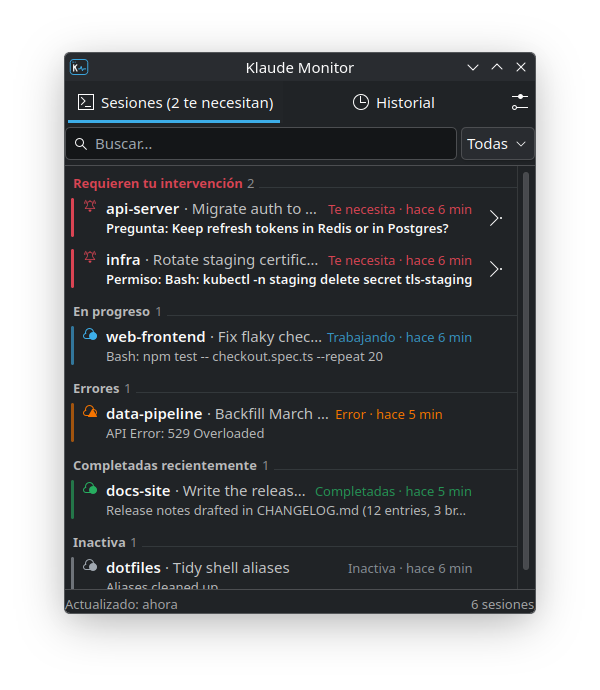
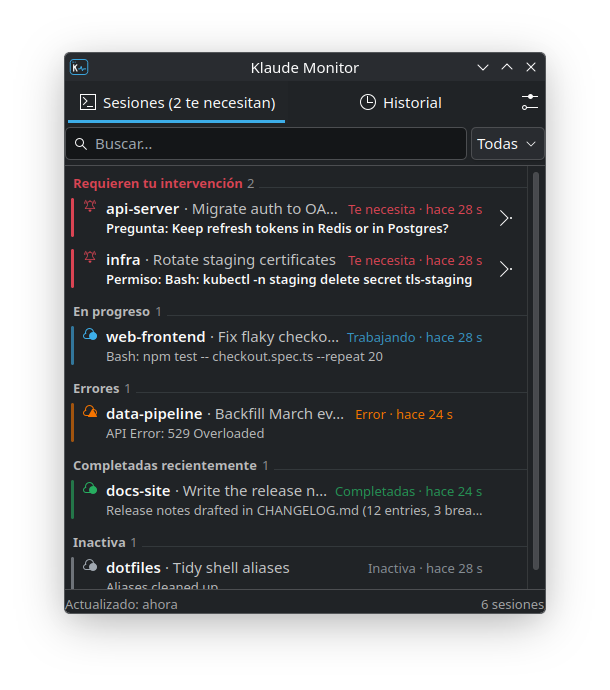
Refresh screenshots; withdraw notifications once handled
All README screenshots retaken with the new panel icon, from an isolated
monitor running demo sessions only.

"Claude needs you" and error notifications are critical, so they stayed
on screen after the session was answered or the error reviewed and piled
up. The service now closes a session's notification as soon as it stops
waiting or its error is reviewed.

diff --git a/daemon/klaude_monitord/notify.py b/daemon/klaude_monitord/notify.py
@@ -101,6 +101,15 @@ class Notifier:
 
         self.bus.call(SERVICE, PATH, SERVICE, "Notify", params, None, Gio.DBusCallFlags.NONE, 5000, None, done)
 
+    def close(self, session_id):
+        """Withdraw the notification shown for a session, if any."""
+        nid = self.by_session.pop(session_id, None)
+        if nid is None:
+            return
+        self.ids.pop(nid, None)
+        self.bus.call(SERVICE, PATH, SERVICE, "CloseNotification", GLib.Variant("(u)", (nid,)), None,
+                      Gio.DBusCallFlags.NONE, 5000, None, None)
+
     def _on_action(self, _bus, _sender, _path, _iface, _signal, params, _data):
         nid, action = params.unpack()
         sid = self.ids.get(nid)

diff --git a/daemon/tests/test_core.py b/daemon/tests/test_core.py
@@ -72,7 +72,13 @@ class StateMachine(Base):
         self.feed("idle")
         self.assertEqual(s.state, "completed")
         self.assertEqual(self.kinds(), ["session_start", "task_start", "needs_input", "input_resolved", "task_end"])
-        self.assertEqual(self.notes, ["needs_input", "completed"])
+        self.assertEqual([n for n in self.notes if n != "dismiss"], ["needs_input", "completed"])
+
+    def test_notification_withdrawn_when_answered(self):
+        self.feed("busy")
+        self.feed("waiting", waiting="permission")
+        self.feed("busy")
+        self.assertEqual(self.notes, ["needs_input", "dismiss"])
 
     def test_short_task_not_notified(self):
         self.feed("busy")

diff --git a/daemon/klaude_monitord/service.py b/daemon/klaude_monitord/service.py
@@ -365,7 +365,12 @@ class Monitor:
 
     # ---- notifications -----------------------------------------------------------------------
     def _notify(self, kind, session, detail):
-        if self.manager.quiet or not self.notifier:
+        if not self.notifier:
+            return
+        if kind == "dismiss":
+            self.notifier.close(session.id)
+            return
+        if self.manager.quiet:
             return
         self.notifier.send(kind, session, detail, self.cfg)
 

diff --git a/daemon/klaude_monitord/sessions.py b/daemon/klaude_monitord/sessions.py
@@ -209,6 +209,9 @@ class Manager:
         s.source = source
         s.since = when
         detail = dict(detail or {})
+        if prev in (NEEDS_INPUT, ERROR):
+            # What the notification asked for is no longer pending: withdraw it.
+            self.notify("dismiss", s, None)
 
         if state == NEEDS_INPUT:
             s.waiting = {"kind": detail.get("kind", "input"), "text": detail.get("text"),
